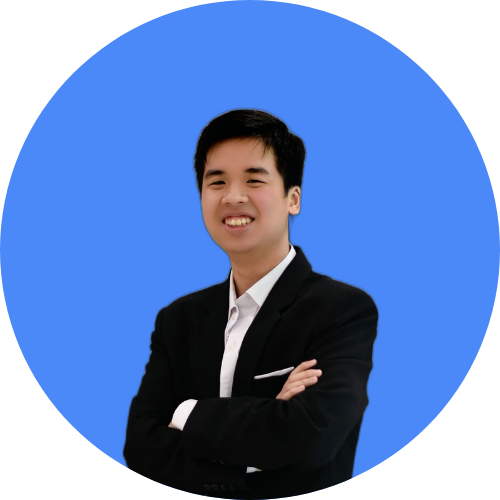
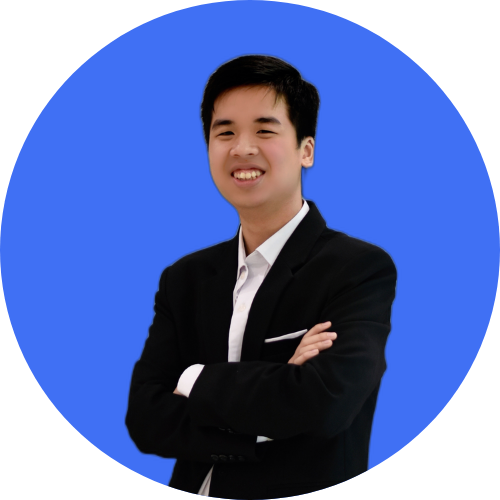
update profile pic background

diff --git a/src/components/Projects.js b/src/components/Projects.js
@@ -12,11 +12,11 @@ const Projects = () => {
                         </p>
                     </div>
                     <dl>
-                        <li>Develop a web application for food review and recommendation in NTU using Django, PostgreSQL, and React.js</li>
-                        <li>Build LSTM and BERT deep learning models that achieve promising performance on the sentiment analysis
+                        <li>Developed a web application for food review and recommendation in NTU using Django, PostgreSQL, and React.js</li>
+                        <li>Built LSTM and BERT deep learning models that achieve promising performance on the sentiment analysis
                             task of Yelp Review dataset using Tensorflow</li>
-                        <li>Implement a Part-of-Speech (POS) algorithm to extract adjective-noun pairs from food reviews as review tags</li>
-                        <li>Create a Solr search system using Learning To Rank and BERT embeddings to find semantically similar reviews 
+                        <li>Implemented a Part-of-Speech (POS) algorithm to extract adjective-noun pairs from food reviews as review tags</li>
+                        <li>Created a Solr search system using Learning To Rank and BERT embeddings to find semantically similar reviews 
                             (Reproduction project for public access: <a href="https://github.com/tkhang1999/Solr-SBERT-semantic-search">Solr-SBERT-semantic-search</a>)</li>
                         <li>Accepted paper to <a href="https://stcai.ai/">STCAI</a> 2021</li>
                     </dl>
